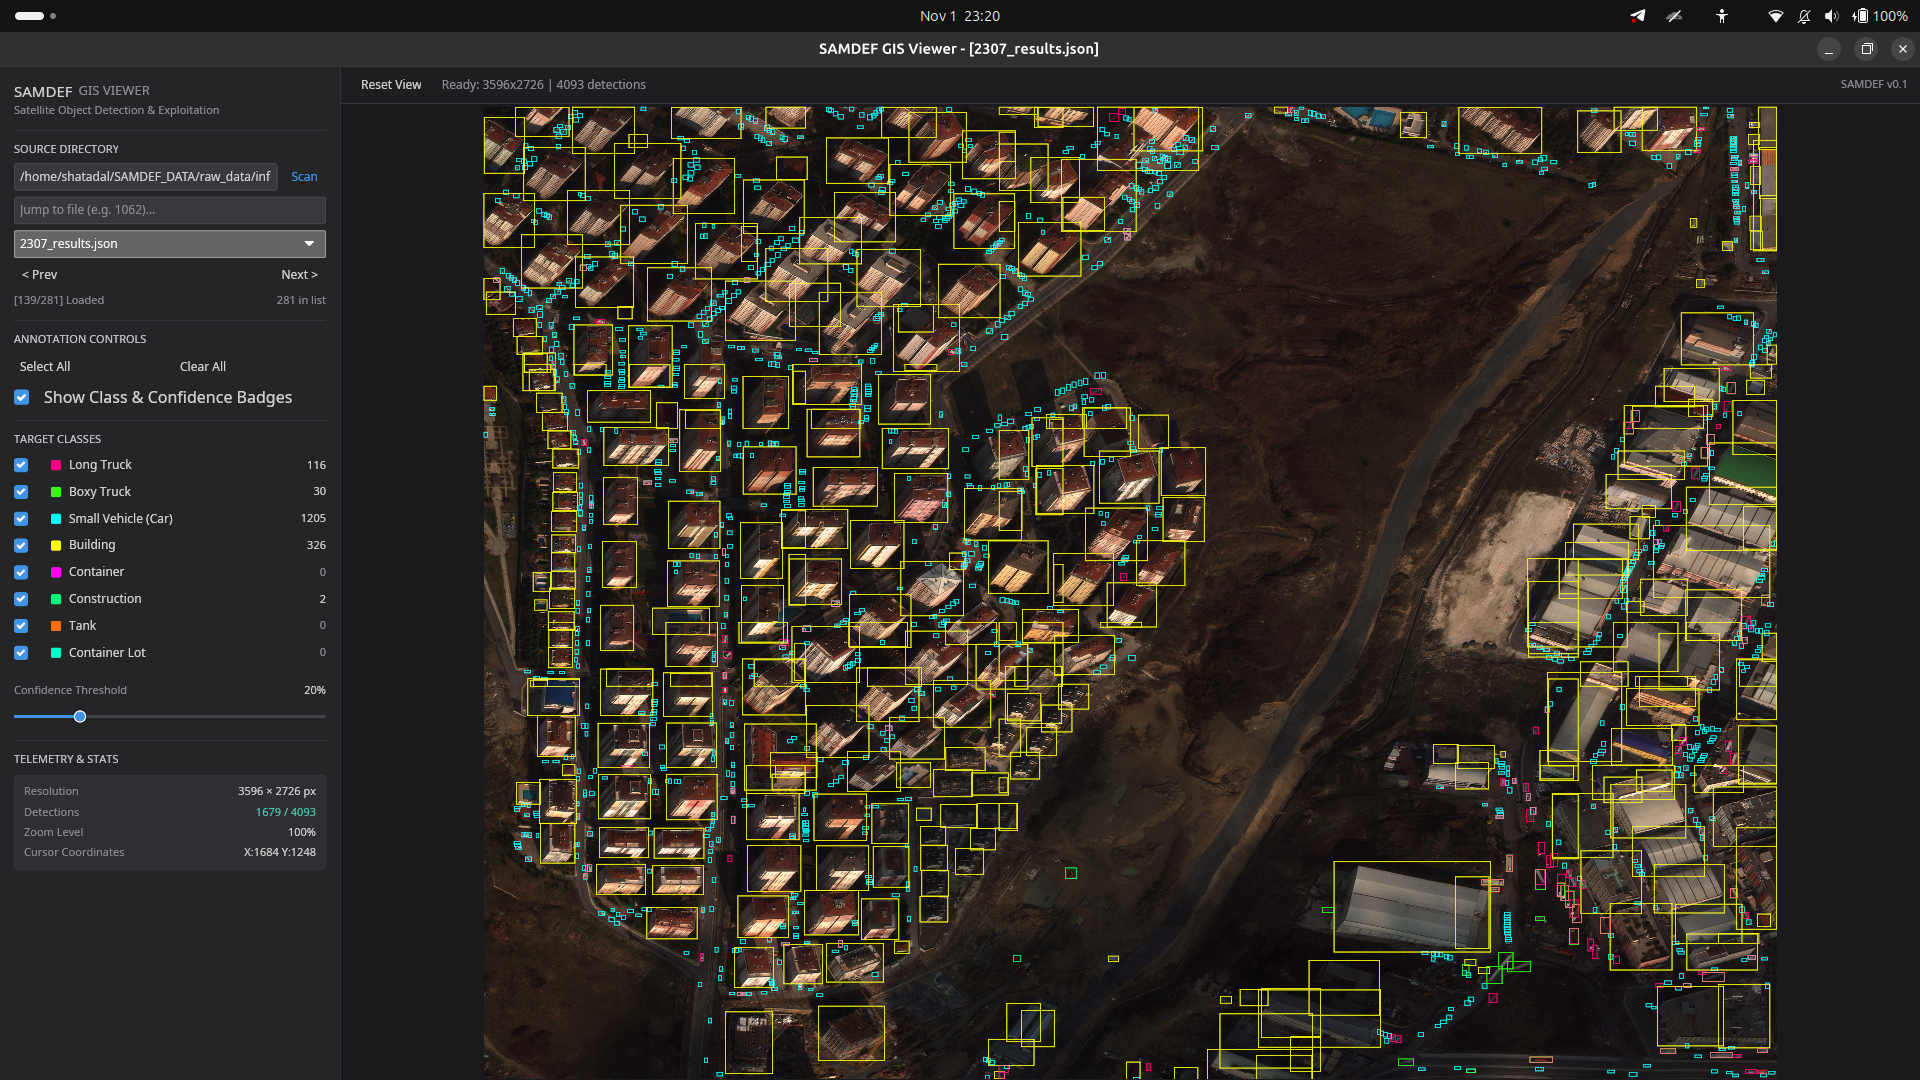
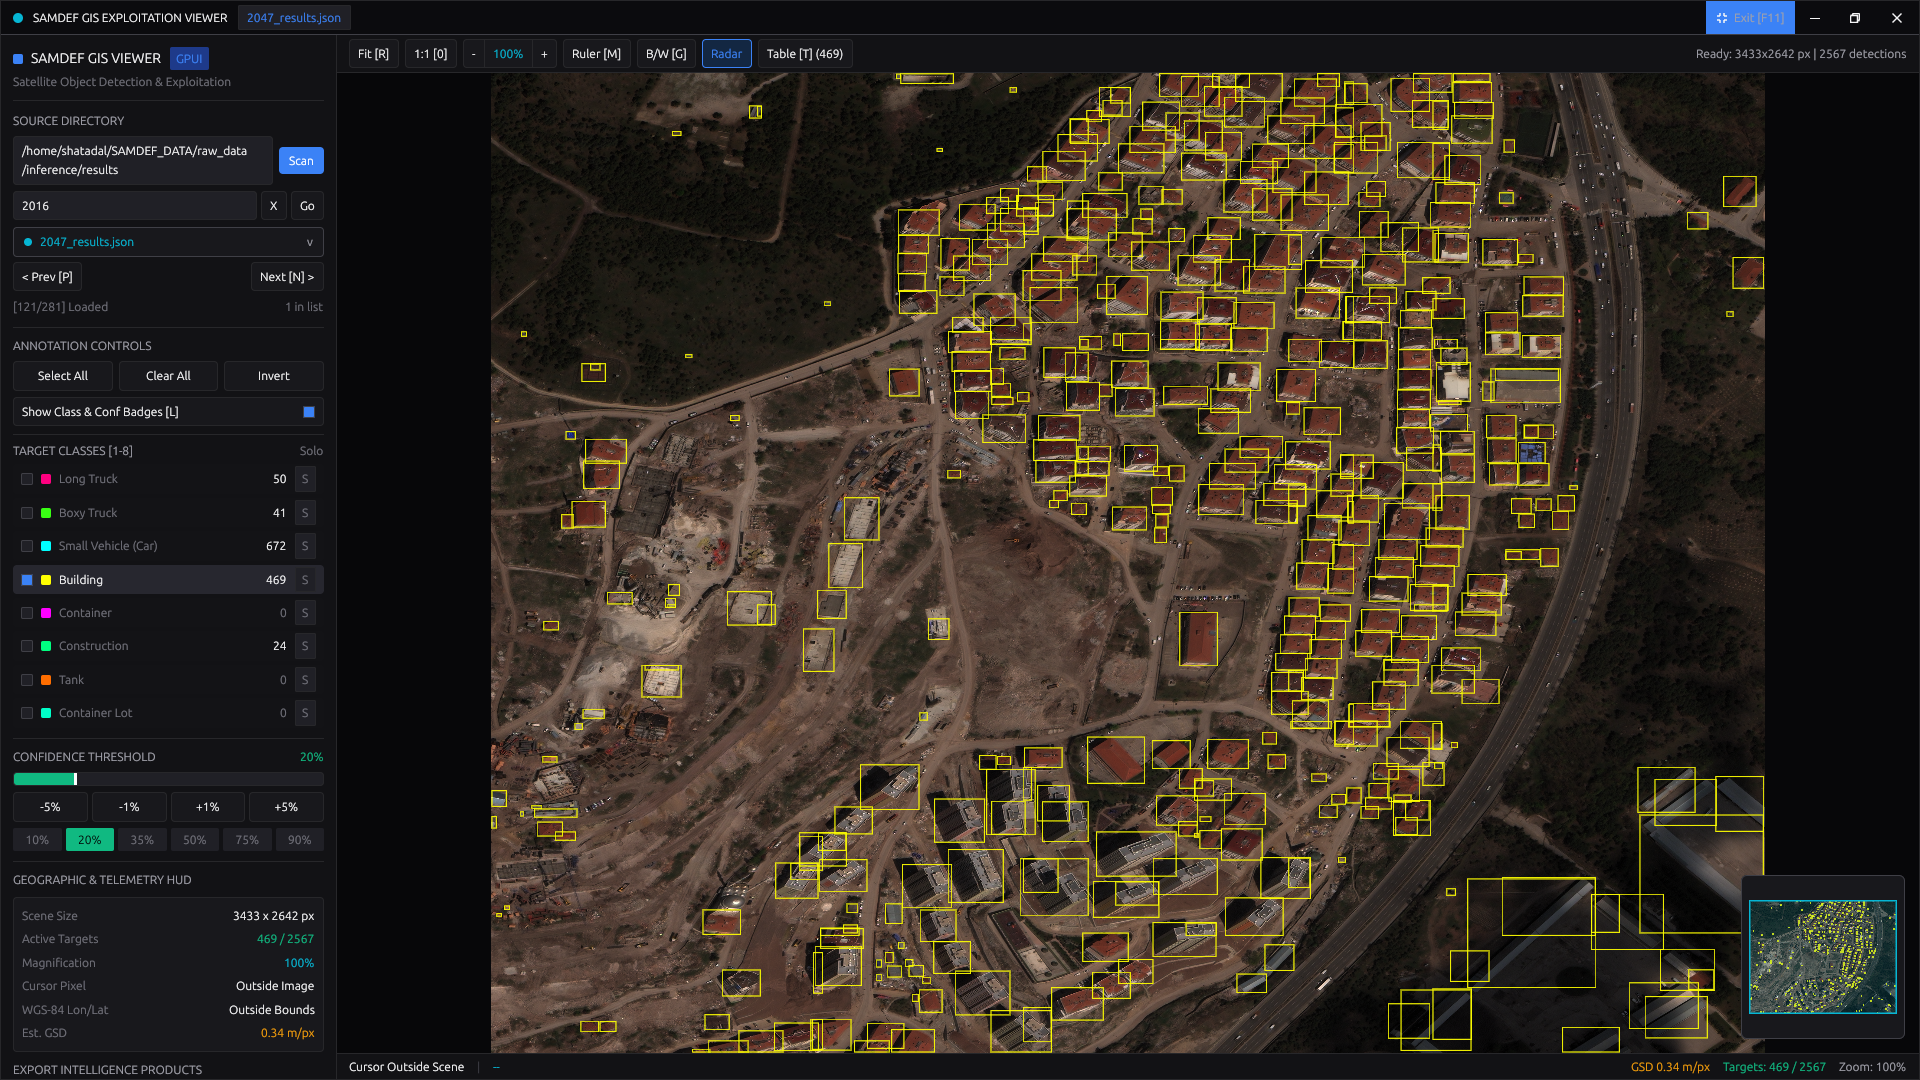
update project details and screenshots for GPUI migration in profile and portfolio data

diff --git a/src/components/Hero.tsx b/src/components/Hero.tsx
@@ -41,7 +41,7 @@ export default function Hero() {
               Edge Computer Vision &amp; CUDA
             </div>
             <p className="text-xs text-neutral-600 dark:text-neutral-400 leading-normal">
-              Pipelined GPU inference, efficient GeoTIFF tiling, and native WGPU/Iced desktop visualization.
+              Pipelined GPU inference, efficient GeoTIFF tiling, and native GPUI (Vulkan) desktop visualization.
             </p>
           </div>
 
